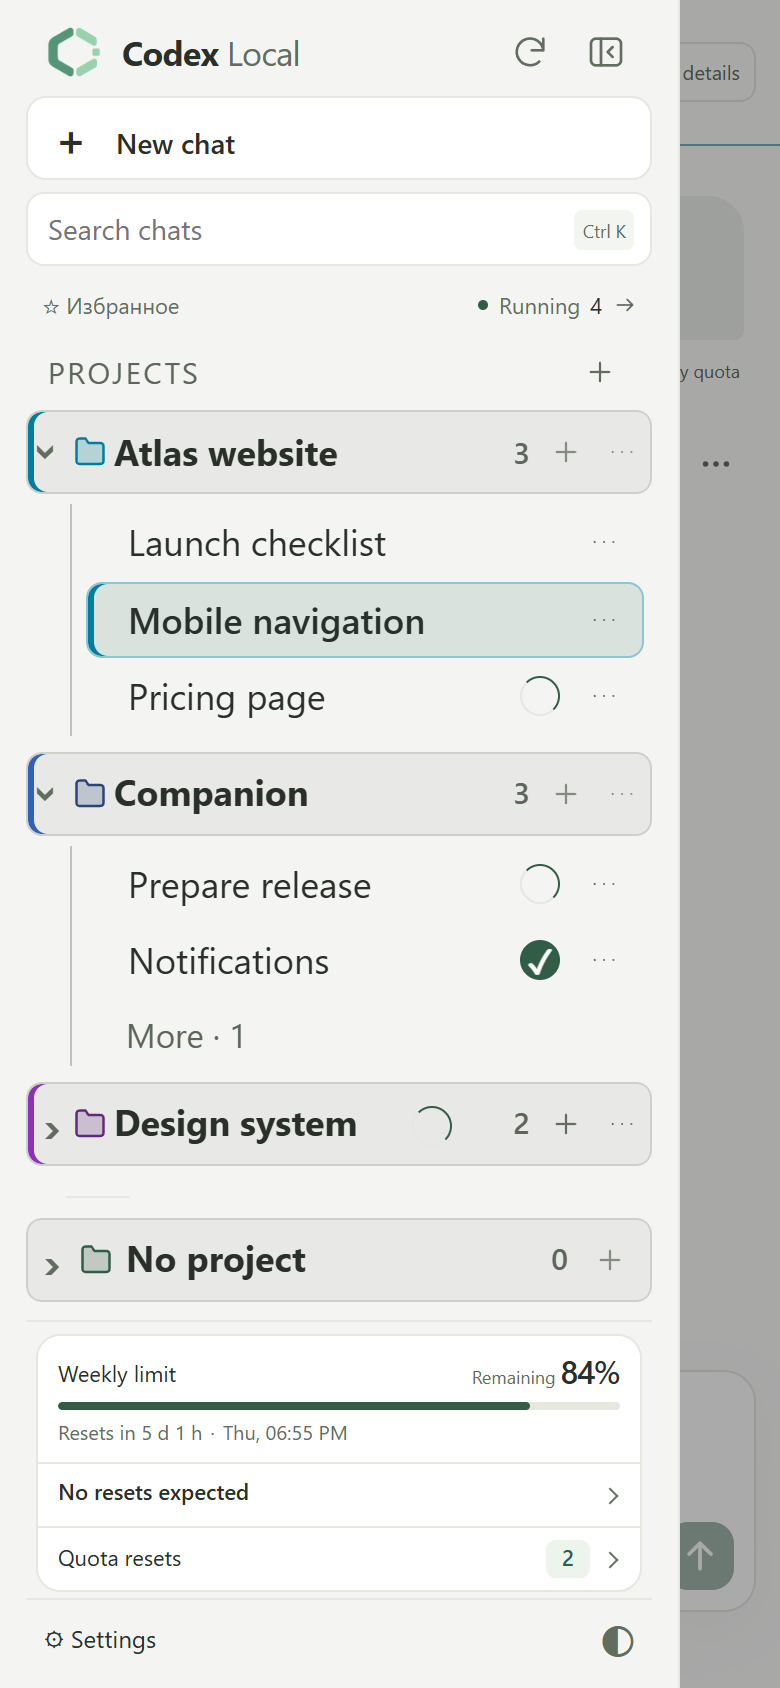
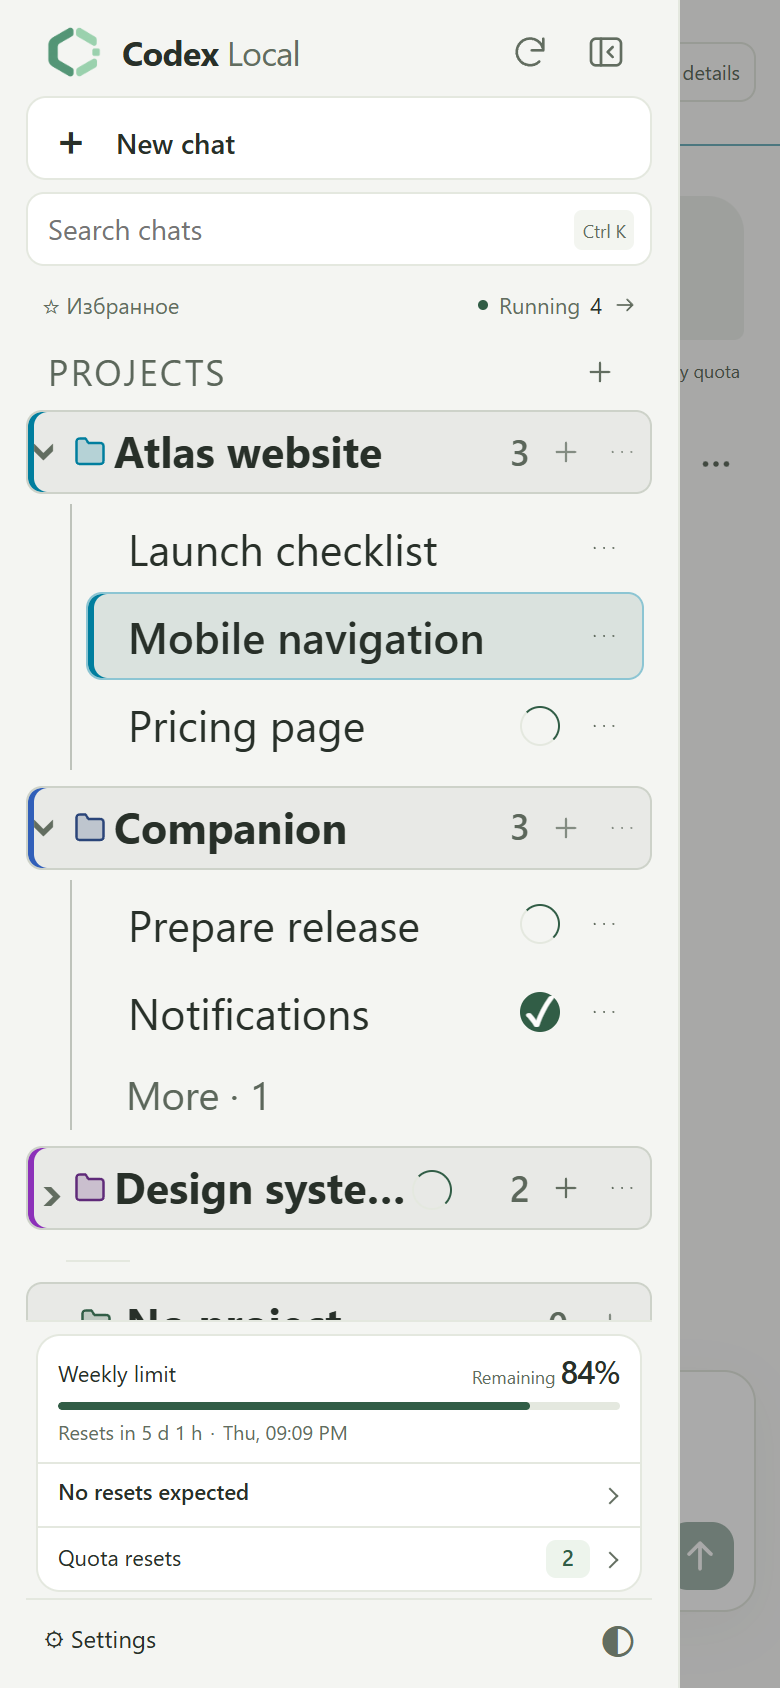
Update overlay launcher and sidebar docs for 0.8.38 [skip ci]

diff --git a/README.md b/README.md
@@ -14,7 +14,7 @@ This repository contains **installers and documentation**. Application source co
 
 ![Codex Local desktop workspace with projects, a launch checklist and usage limits](assets/screenshots/en/workspace-light.png)
 
-<p align="center"><sub>Codex Local 0.8.37 · Actual interface with demo projects and conversations.</sub></p>
+<p align="center"><sub>Codex Local 0.8.38 · Actual interface with demo projects and conversations.</sub></p>
 
 Project and chat names, counts and headings in the sidebar use larger text on desktop and phones. On desktop, drag the sidebar’s right edge to adjust its width.
 
@@ -41,11 +41,11 @@ The interface is available in English and Russian. Choose your language in **Set
 
 ## Always-on-top window
 
-Open the window from the chat header. On Windows it stays above other apps and can open automatically when Codex Local is minimized or in the background. Pin it to prevent accidental dragging. A counter and switching arrow appear when multiple running or unread chats are available; viewing the window does not mark answers as read.
+Open the window with the icon on the right of a running chat’s status and speed row. On Windows it stays above other apps and can open automatically when Codex Local is minimized or in the background. Pin it to prevent accidental dragging. A counter and switching arrow appear when multiple running or unread chats are available; viewing the window does not mark answers as read.
 
 The header shows the project name; the window shows the full latest progress message and a short status with a spinner: Thinking, Working on the task or Optimizing conversation. New fragments appear smoothly, with the blinking caret at the end of the text. Commands and their output are hidden. When a task finishes, it displays **Work finished**; the **Open chat** icon beside Close is always available.
 
-In **Settings → Always-on-top window**, choose text and window styles from visual cards. **Test overlay** opens a real window using your draft size and appearance; **Default** restores the width and height to 400 × 260. Font size can be set from 10 to 32 px. Long text can scroll manually, scroll automatically from top to bottom in a loop, or grow the window within the screen. It grows smoothly as lines appear and keeps its bottom edge fixed as the height changes. Hover pauses automatic scrolling for manual reading; moving away resumes it. The color picker appears directly inside the Custom color card. Set the theme color, position, opacity and automatic opening there too. Disabling the feature hides the chat button and detailed settings. Supported browsers offer manual opening with Picture-in-Picture.
+In **Settings → Always-on-top window**, choose text and window styles from visual cards. **Test overlay** opens a real window using your draft size and appearance; **Default** restores the width and height to 400 × 260. Font size can be set from 10 to 32 px. Long text can scroll manually, scroll automatically from top to bottom in a loop, or grow the window within the screen. It grows smoothly as lines appear and keeps its bottom edge fixed as the height changes. The scrollbar appears only after reaching the screen limit; changing the default size remeasures existing text. Hover pauses automatic scrolling for manual reading; moving away resumes it. The color picker appears directly inside the Custom color card. Set the theme color, position, opacity and automatic opening there too. Disabling the feature hides the chat button and detailed settings. Supported browsers offer manual opening with Picture-in-Picture.
 
 | Progress window | Compact settings |
 | --- | --- |
